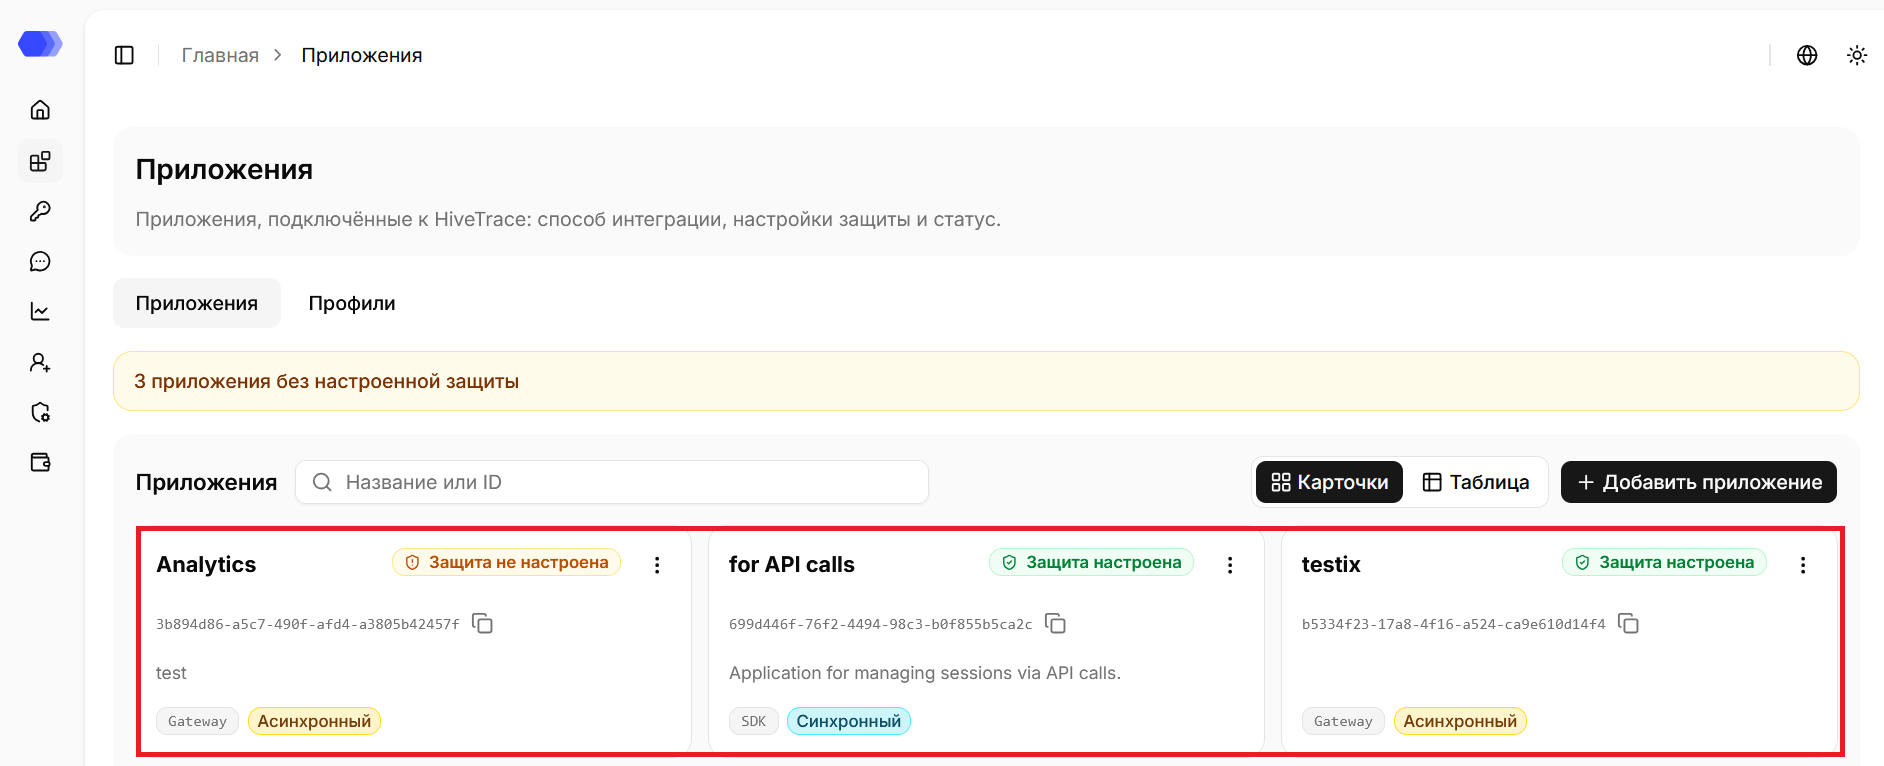
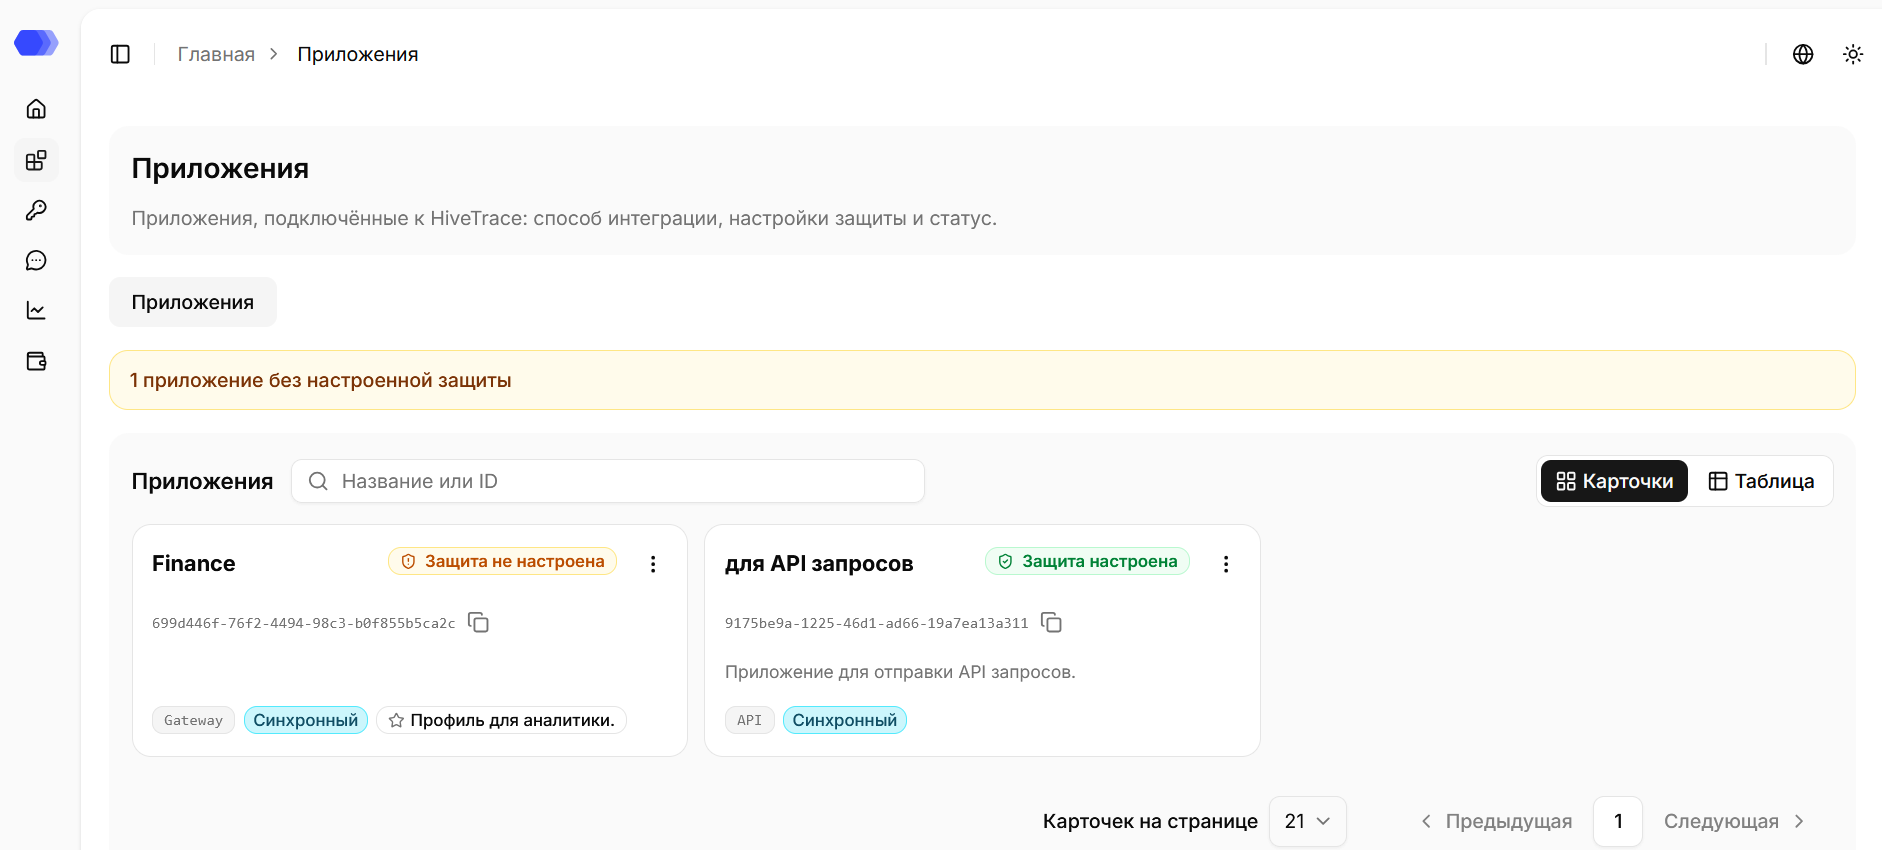
docs: update required permissions, update application screenshots.

diff --git a/hivetrace-docs/src/content/docs/guides/hivetrace-monitoring/api-tokens.md b/hivetrace-docs/src/content/docs/guides/hivetrace-monitoring/api-tokens.md
@@ -11,11 +11,11 @@ API-токены авторизуют SDK и прямые API-интеграци
 | Действие | Область | Мин. доступ |
 |---|---|---|
 | Просмотр страницы | `API-токены и интеграции` | `Чтение` |
-| Добавление нового API токена | `Приложения` | `Чтение` |
+| Создание API токена | `Приложения` | `Чтение` |
 | | `API-токены и интеграции` | `Редактирование` |
 | Удаление API токена | `API-токены и интеграции` | `Полный` |
 
-> **Примечание:** На странице можно просматривать, создавать и удалять токены в пределах области, доступной пользователю. Областью может быть конкретное приложение, группа приложений или все приложения — если область назначения `«Вся система»`.
+> **Примечание:** можно просматривать, создавать и удалять токены только в пределах области, доступной пользователю. Областью может быть конкретное приложение, группа приложений или все приложения — если область назначения `«Вся система»`.
 
 Если у пользователя нет доступа для просмотра страницы, отображается страница `403 - Нет доступа`.
 

diff --git a/hivetrace-docs/src/content/docs/guides/hivetrace-monitoring/applications.md b/hivetrace-docs/src/content/docs/guides/hivetrace-monitoring/applications.md
@@ -17,8 +17,10 @@ sidebar:
 | Просмотр вкладки `Пользователи` | `Конечные пользователи` | `Чтение` |
 | Создание приложения | `Приложения` | `Чтение` |
 | | `Подключение приложений` | `Полный` |
-| Редактирование приложения из шапки| `Приложения` | `Редактирование` |
-| Удаление приложения из шапки| `Приложения` | `Полный` |
+| Редактирование приложения из шапки | `Приложения` | `Редактирование` |
+| Удаление приложения из шапки | `Приложения` | `Полный` |
+
+> **Примечание:** можно просматривать, создавать и удалять приложения только в пределах области, доступной пользователю. Областью может быть конкретное приложение, группа приложений или все приложения — если область назначения `«Вся система»`.
 
 Если у пользователя нет доступа для просмотра страницы, отображается страница `403 - Нет доступа`.
 

diff --git a/hivetrace-docs/src/content/docs/en/guides/hivetrace-monitoring/api-tokens.md b/hivetrace-docs/src/content/docs/en/guides/hivetrace-monitoring/api-tokens.md
@@ -11,11 +11,11 @@ API tokens authorize SDK and direct API integrations. A token value is displayed
 | Action | Area | Min. access level |
 |---|---|---|
 | Viewing the page | `API tokens and integrations` | `Read` |
-| Adding a new API token | `Applications` | `Read` |
+| Creating an API token | `Applications` | `Read` |
 | | `API tokens and integrations` | `Edit` |
 | Deleting an API token | `API tokens and integrations` | `Full` |
 
-> **Note:** you can view, create, and delete tokens only within the scope available to you. The scope can be a specific application, an application group, or all applications — if the assignment scope is `Whole system`.
+> **Note:** tokens can be viewed, created, and deleted only within the scope available to a user. The scope can be a specific application, an application group, or all applications — if the assignment scope is `Whole system`.
 
 If the user does not have access to view the page, `403 — Access denied` is displayed.
 

diff --git a/hivetrace-docs/src/content/docs/guides/hivetrace-monitoring/dashboard.md b/hivetrace-docs/src/content/docs/guides/hivetrace-monitoring/dashboard.md
@@ -14,6 +14,8 @@ sidebar:
 | Просмотр последних оповещений | `Сессии и сообщения` | `Чтение` |
 | Переход на страницу оповещений | `Сессии и сообщения` | `Чтение` |
 
+> **Примечание:** можно просматривать данные только в пределах области, доступной пользователю. Областью может быть конкретное приложение, группа приложений или все приложения — если область назначения `«Вся система»`.
+
 ## Сводные показатели и графики
 
 ![Главная страница: сообщения, нарушения и расход токенов](../../../../assets/img/dashboard-summary-4-4.webp)

diff --git a/hivetrace-docs/src/content/docs/guides/hivetrace-monitoring/session-analytics.md b/hivetrace-docs/src/content/docs/guides/hivetrace-monitoring/session-analytics.md
@@ -21,6 +21,8 @@ sidebar:
 | Выгрузка сессий | `Сессии и сообщения` | `Чтение` |
 | | `Гранулярное разрешение` | `Экспорт сессий` |
 
+> **Примечание:** можно просматривать и выгружать сессии только в пределах области, доступной пользователю. Областью может быть конкретное приложение, группа приложений или все приложения — если область назначения `«Вся система»`.
+
 Если у пользователя нет доступа для просмотра страницы, отображается страница `403 - Нет доступа`.
 
 ## Поиск и экспорт

diff --git a/hivetrace-docs/src/content/docs/guides/hivetrace-monitoring/cost-usage.md b/hivetrace-docs/src/content/docs/guides/hivetrace-monitoring/cost-usage.md
@@ -14,6 +14,8 @@ sidebar:
 | Фильтрация по приложению | `Приложения` | `Чтение` |
 | | `Аналитика` | `Чтение` |
 
+> **Примечание:** можно просматривать данные только в пределах области, доступной пользователю. Областью может быть конкретное приложение, группа приложений или все приложения — если область назначения `«Вся система»`.
+
 Если у пользователя нет доступа для просмотра страницы, отображается страница `403 - Нет доступа`.
 
 ## Быстрые фильтры

diff --git a/hivetrace-docs/src/content/docs/guides/hivetrace-monitoring/alerts.md b/hivetrace-docs/src/content/docs/guides/hivetrace-monitoring/alerts.md
@@ -12,6 +12,8 @@ sidebar:
 
 - Область **Сессии и сообщения** — уровень доступа не ниже `«Чтение»`.
 
+> **Примечание:** можно просматривать данные только в пределах области, доступной пользователю. Областью может быть конкретное приложение, группа приложений или все приложения — если область назначения `«Вся система»`.
+
 Если у пользователя нет доступа для просмотра страницы, отображается страница `403 - Нет доступа`.
 
 ## Таблица оповещений

diff --git a/hivetrace-docs/src/content/docs/guides/hivetrace-monitoring/app-configuration.md b/hivetrace-docs/src/content/docs/guides/hivetrace-monitoring/app-configuration.md
@@ -12,10 +12,8 @@ sidebar:
 
 | Действие | Область | Мин. доступ |
 |---|---|---|
-| Просмотр страницы | `Платформа` | `Чтение` |
+| Просмотр диалогового окна | `Платформа` | `Чтение` |
 | Редактирование настроек приложения | `Платформа` | `Редактирование` |
-
-Если у пользователя нет доступа для просмотра страницы, отображается страница `403 - Нет доступа`.
 
 ## Основные настройки
 

diff --git a/hivetrace-docs/src/content/docs/en/guides/hivetrace-monitoring/applications.md b/hivetrace-docs/src/content/docs/en/guides/hivetrace-monitoring/applications.md
@@ -20,6 +20,8 @@ The **Applications** section lists AI applications connected to HiveTrace. Each 
 | Editing an application from the header | `Applications` | `Edit` |
 | Deleting an application from the header | `Applications` | `Full` |
 
+> **Note:** applications can be viewed, created, and deleted only within the scope available to a user. The scope can be a specific application, an application group, or all applications — if the assignment scope is `Whole system`.
+
 If the user does not have access to view the page, `403 — Access denied` is displayed.
 
 ## Opening the `Applications` section

diff --git a/hivetrace-docs/src/content/docs/en/guides/hivetrace-monitoring/dashboard.md b/hivetrace-docs/src/content/docs/en/guides/hivetrace-monitoring/dashboard.md
@@ -14,7 +14,7 @@ The **Dashboard** opens after sign-in and summarises HiveTrace traffic. Message 
 | Viewing the latest alerts | `Sessions and messages` | `Read` |
 | Navigating to the `Alerts` page | `Sessions and messages` | `Read` |
 
-If the user does not have access to view the page, `403 — Access denied` is displayed.
+> **Note:** the data can be viewed only within the scope available to a user. The scope can be a specific application, an application group, or all applications — if the assignment scope is `Whole system`.
 
 ## Summary metrics and charts
 

diff --git a/hivetrace-docs/src/content/docs/en/guides/hivetrace-monitoring/cost-usage.md b/hivetrace-docs/src/content/docs/en/guides/hivetrace-monitoring/cost-usage.md
@@ -14,6 +14,8 @@ The **Billing** section shows LLM load in requests and tokens. Use it to identif
 | Filtering by application | `Applications` | `Read` |
 | | `Analytics` | `Read` |
 
+> **Note:** the data can be viewed only within the scope available to a user. The scope can be a specific application, an application group, or all applications — if the assignment scope is `Whole system`.
+
 If the user does not have access to view the page, `403 — Access denied` is displayed.
 
 ## Quick filters

diff --git a/hivetrace-docs/src/content/docs/en/guides/hivetrace-monitoring/alerts.md b/hivetrace-docs/src/content/docs/en/guides/hivetrace-monitoring/alerts.md
@@ -12,6 +12,8 @@ To view the **Alerts** page, the following permissions are required:
 
 - Area **Sessions and messages** — access level of at least `Read`.
 
+> **Note:** the data can be viewed only within the scope available to a user. The scope can be a specific application, an application group, or all applications — if the assignment scope is `Whole system`.
+
 If the user does not have access to view the page, `403 — Access denied` is displayed.
 
 ## Alerts table
